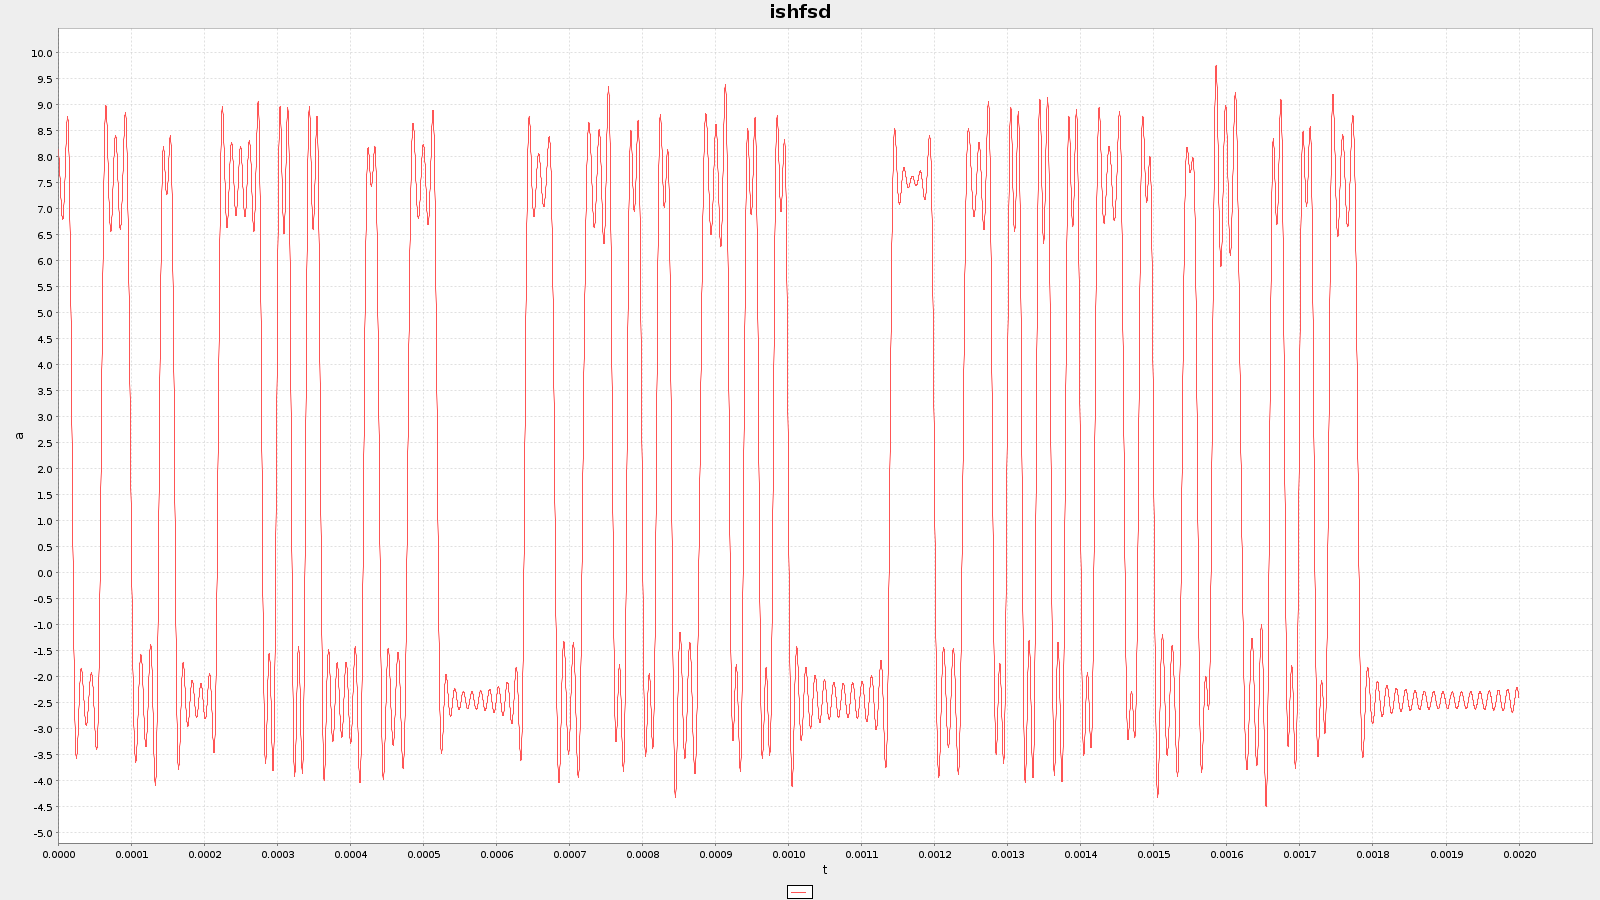
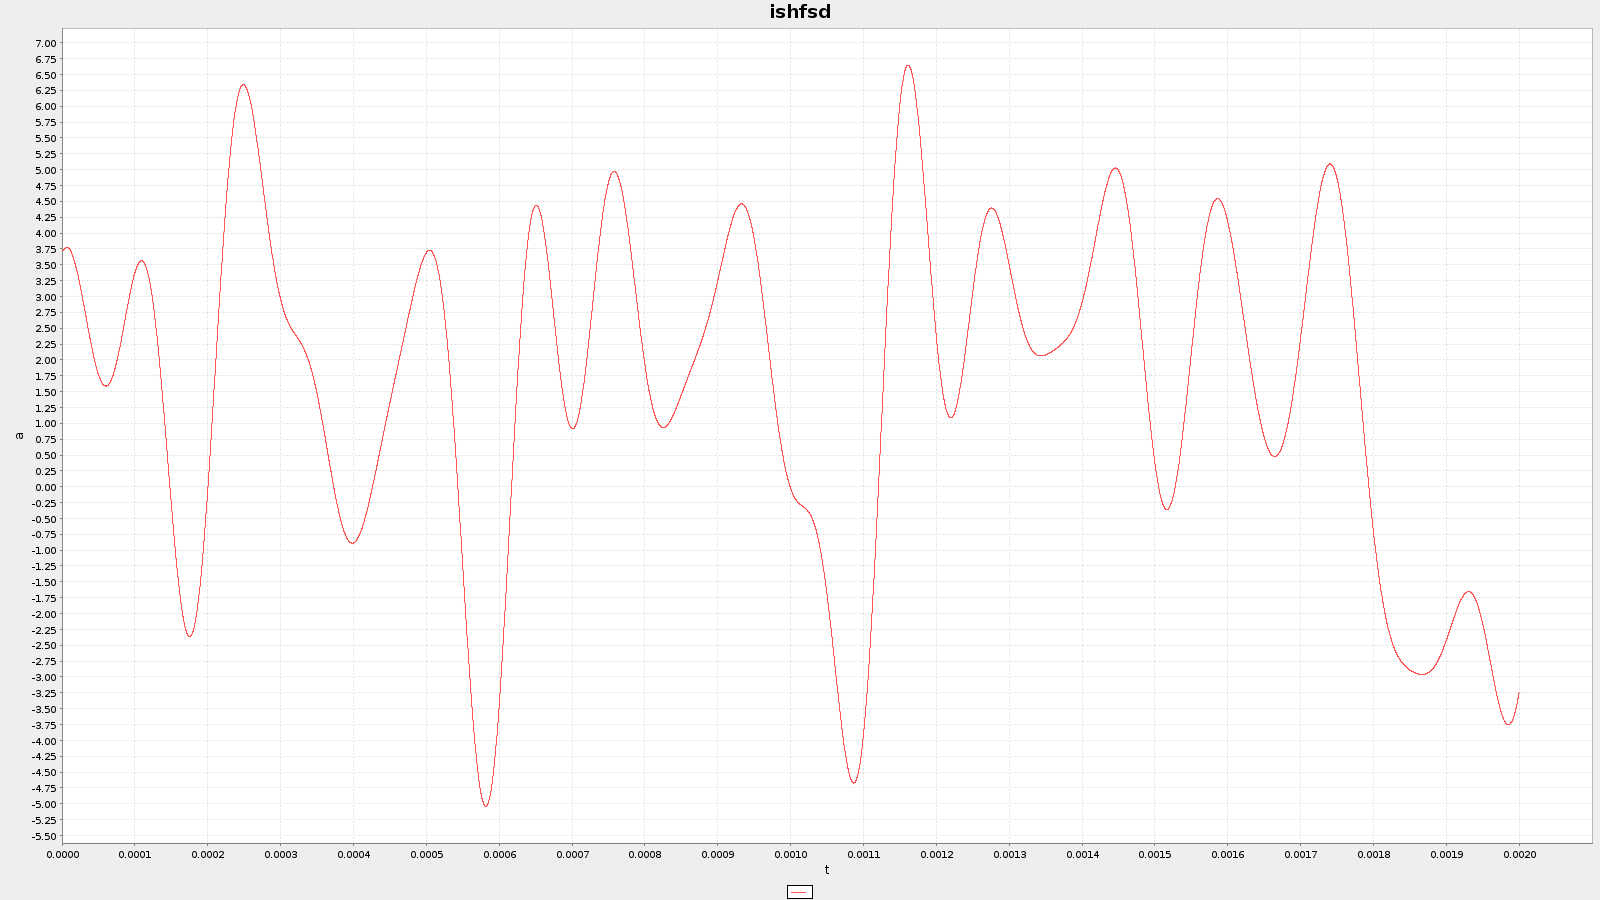
ask working with output filter

diff --git a/channel-simulation/java-channel-simulation/src/main/java/main/DemodulationController.java b/channel-simulation/java-channel-simulation/src/main/java/main/DemodulationController.java
@@ -23,9 +23,16 @@ public class DemodulationController implements Runnable {
                 this.demodulator.next((float) (rd.nextGaussian() * this.simulatorView.getNoiseRMS()));
 
 
-            // Sometimes the demodulator won't output the final byte, so need to make sure that there's a multiple
-            // of 3 bytes in the buffer.
-            for (int i = 0; i < this.demodulator.buffer.getSize() % 3; i++) this.demodulator.buffer.addData((byte) 0x00);
+            /*synchronized (this.demodulator.buffer) {
+                // Sometimes the demodulator won't output the last bytes, or will output too many.
+                if (this.demodulator.buffer.getSize() != 0) {
+                    while (this.demodulator.buffer.getSize() > this.simulatorView.getModulator().buffer.getSize())
+                        this.demodulator.buffer.getChunk(1);
+                    while (this.demodulator.buffer.getSize() < this.simulatorView.getModulator().buffer.getSize())
+                        this.demodulator.buffer.addData((byte) 0x00);
+                }
+                this.demodulator.buffer.notifyAll();
+            }*/
 
             // Tell the simulator window that the demodulation has finished.
             this.simulatorView.alertFinished();

diff --git a/channel-simulation/java-channel-simulation/src/main/java/util/Filter.java b/channel-simulation/java-channel-simulation/src/main/java/util/Filter.java
@@ -19,6 +19,7 @@ public class Filter {
 
     public void filter(float[] samples, float timeStep) {
 
+        // To reduce memory usage and avoid scaling, do the Fourier Transform 1 second at a time.
         int samplesPerSecond = (int) Math.round(1d / timeStep);
         for (int i = 0; (i + 1) * samplesPerSecond < samples.length; i++) {
             float[] newSamples = new float[samplesPerSecond * 2];
@@ -31,16 +32,6 @@ public class Filter {
             for (int j = 0; j < newSamples.length / 2; j++)
                 samples[j + i * samplesPerSecond] = newSamples[j * 2] / ((float) samplesPerSecond / 2);
         }
-
-        float[] newSamples = new float[(samples.length % samplesPerSecond) * 2];
-        System.arraycopy(samples, samples.length - newSamples.length / 2, newSamples, 0, newSamples.length / 2);
-        FloatFFT_1D fft = new FloatFFT_1D(newSamples.length / 2);
-        fft.realForward(newSamples);
-        removeFrequencies(newSamples);
-        fft.complexInverse(newSamples, false);
-
-        for (int j = 0; j < newSamples.length / 2; j++)
-            samples[j + samples.length - newSamples.length / 2] = newSamples[j * 2] / ((float) samplesPerSecond / 2);
     }
 
     public Filter(int lowCutoff, int highCutoff) {

diff --git a/channel-simulation/java-channel-simulation/src/main/java/modulator/ModulatorFactory.java b/channel-simulation/java-channel-simulation/src/main/java/modulator/ModulatorFactory.java
@@ -15,7 +15,8 @@ public class ModulatorFactory {
         float carrierAmplitude = Float.parseFloat(parameters.get(2));
         float depth = Float.parseFloat(parameters.get(3));
 
-        Filter filter = new Filter((int) (carrierAmplitude * 0.9), (int) (carrierAmplitude * 1.1));
+        // Limit bandwidth to 20% of carrier frequency.
+        Filter filter = new Filter((int) (carrierFrequency * 0.9), (int) (carrierFrequency * 1.1));
 
         return new ASKModulator(carrierFrequency, modulationFrequency, carrierAmplitude, depth, filter);
     }
@@ -26,7 +27,8 @@ public class ModulatorFactory {
         float carrierAmplitude = Float.parseFloat(parameters.get(2));
         float order = Integer.parseInt(parameters.get(3));
 
-        Filter filter = new Filter((int) (carrierAmplitude * 0.9), (int) (carrierAmplitude * 1.1));
+        // Limit bandwidth to 20% of carrier frequency.
+        Filter filter = new Filter((int) (carrierFrequency * 0.9), (int) (carrierFrequency * 1.1));
 
         return new QAMModulator(carrierFrequency, modulationFrequency, carrierAmplitude, order, filter);
     }

diff --git a/channel-simulation/java-channel-simulation/src/main/java/modulator/Modulator.java b/channel-simulation/java-channel-simulation/src/main/java/modulator/Modulator.java
@@ -10,7 +10,7 @@ public abstract class Modulator {
     // Array of default parameters for use by SimulatorSettings class - all concrete Modulators will have these.
     public static final String[] parameters = {"carrier frequency", "modulation frequency", "carrier amplitude"};
     // Array of default values for each parameter.
-    public static final String[] parameterDefaults = {"100000", "50000", "10"};
+    public static final String[] parameterDefaults = {"100000", "10000", "100"};
     public final Buffer buffer = new Buffer();
 
     public abstract float[] calculate(byte[] data, float timeStep);

diff --git a/channel-simulation/java-channel-simulation/src/main/java/main/Simulator.java b/channel-simulation/java-channel-simulation/src/main/java/main/Simulator.java
@@ -103,7 +103,7 @@ public class Simulator {
 
         String path = "../assets/frames";
         // todo reset this
-        int framesToPlay = 5;//getNumFrames(path);
+        int framesToPlay = 10;//getNumFrames(path);
         Modulator modulator = simulatorSettings.getModulator();
         byte[] data = readImages(path, framesToPlay);
         Dimension imageSize = readImageSize(path);

diff --git a/channel-simulation/java-channel-simulation/src/main/java/display/SimulatorView.java b/channel-simulation/java-channel-simulation/src/main/java/display/SimulatorView.java
@@ -172,4 +172,12 @@ public class SimulatorView extends Frame implements Runnable {
     public boolean isFinished() {
         return this.finished;
     }
+
+    public int getImageSizeBytes() {
+        return this.inputDisplay.getImageHeight() * this.inputDisplay.getImageWidth() * 3;
+    }
+
+    public Modulator getModulator() {
+        return this.modulator;
+    }
 }

diff --git a/channel-simulation/java-channel-simulation/src/main/java/modulator/ASKModulator.java b/channel-simulation/java-channel-simulation/src/main/java/modulator/ASKModulator.java
@@ -34,7 +34,7 @@ public class ASKModulator extends Modulator {
 
             samples[i] = (float) (this.carrierAmplitude * Math.sin(2 * Math.PI * t * this.carrierFrequency) * (bit ? 1 : 1 - this.depth));
         }
-        //this.outputFilter.filter(samples, timeStep);
+        this.outputFilter.filter(samples, timeStep);
 
         this.buffer.addData(data);
 
